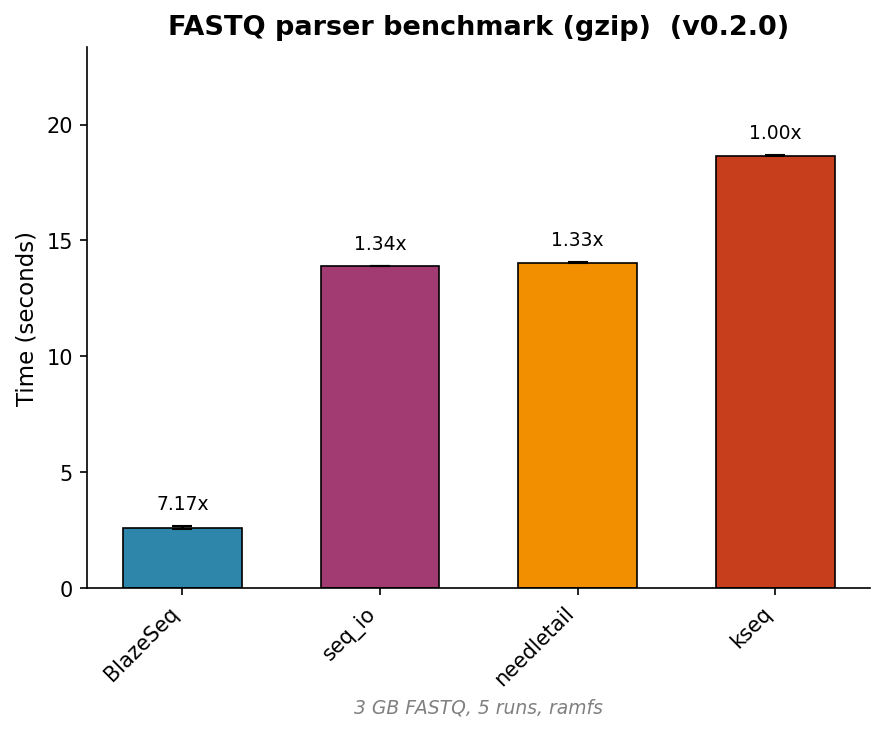
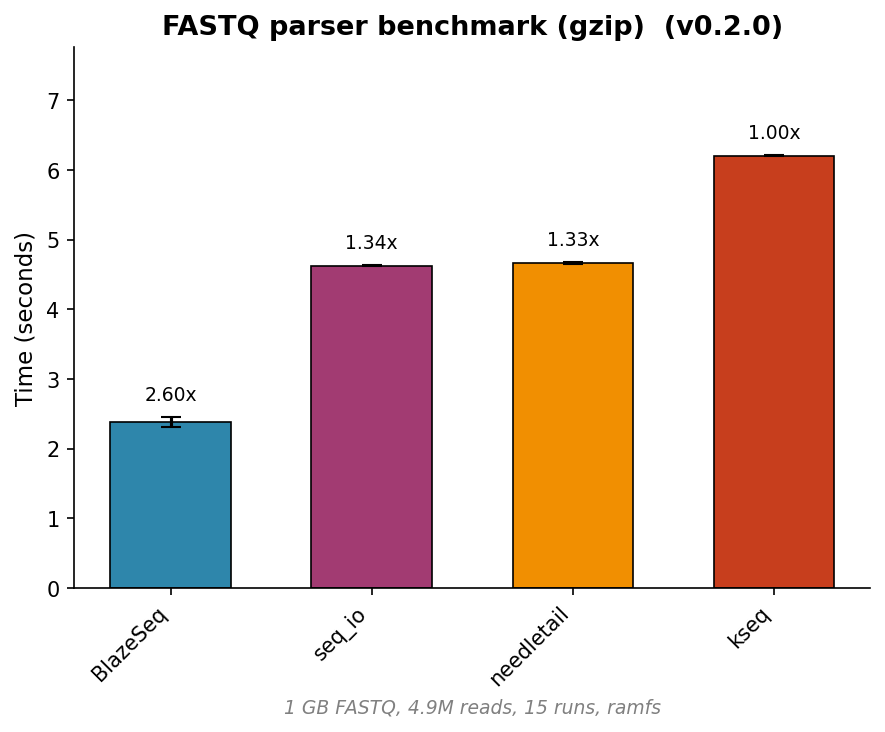
adjusted benchmarks

diff --git a/benchmark/fastq-parser/Benchmarking.md b/benchmark/fastq-parser/Benchmarking.md
@@ -164,7 +164,7 @@ The gzip benchmark compares **wall-clock time** (elapsed time) for decompress-an
 | **kseq**  | zlib                   | Single-threaded. One thread reads the gzip stream and decompresses sequentially. |
 | **needletail** | flate2 (or equivalent) | Single-threaded. Decompression runs on one thread. |
 | **seq_io** | flate2                 | Single-threaded. One thread for decompression. |
-| **BlazeSeq** | rapidgzip (via rapidgzip-mojo) | **Multi-threaded.** Parallel decompression across available cores (e.g. 12 cores on a 12-core processor). |
+| **BlazeSeq** | rapidgzip (via rapidgzip-mojo) | **Multi-threaded.** Parallel decompression; default **4 threads** (override with script arg or `GZIP_BLAZESEQ_THREADS`). |
 
 **Why this matters**
 
@@ -196,6 +196,10 @@ pixi run -e benchmark benchmark-gzip-single
 
 Results are written to `benchmark_results_gzip_single.md` and `benchmark_results_gzip_single.json`; the plot script produces `assets/parser_gzip_single.png`.
 
+### BlazeSeq thread count (multi-threaded only)
+
+The **multi-threaded** gzip benchmark caps BlazeSeq’s rapidgzip decompression at **4 threads by default**. You can override this with the first script argument or the `GZIP_BLAZESEQ_THREADS` environment variable. The single-threaded benchmark always uses 1 thread.
+
 ### Output files
 
 - **Multi-threaded (default):** `benchmark_results_gzip.md`, `benchmark_results_gzip.json`
@@ -205,14 +209,36 @@ Results are written to `benchmark_results_gzip_single.md` and `benchmark_results
 
 From the **repository root**, with the benchmark environment installed:
 
-```bash
-pixi run -e benchmark ./benchmark/fastq-parser/run_benchmarks_gzip.sh
-```
-
-Or use the pixi task:
+**Multi-threaded** (BlazeSeq uses 4 threads by default):
 
 ```bash
 pixi run -e benchmark benchmark-gzip
+```
+
+Use a different thread count by passing it as the first argument (e.g. 8 threads):
+
+```bash
+pixi run -e benchmark benchmark-gzip 8
+pixi run -e benchmark benchmark-gzip 0 # To use all available threads
+```
+
+Or run the script directly (with optional thread count):
+
+```bash
+./benchmark/fastq-parser/run_benchmarks_gzip.sh 0 # Will use all available threads
+./benchmark/fastq-parser/run_benchmarks_gzip.sh 8
+```
+
+**Single-threaded** (BlazeSeq uses 1 thread; all tools pinned to one core):
+
+```bash
+pixi run -e benchmark benchmark-gzip-single
+```
+
+Or:
+
+```bash
+GZIP_BENCH_PARALLELISM=1 ./benchmark/fastq-parser/run_benchmarks_gzip.sh
 ```
 
 **Requirements**: pixi, hyperfine, cargo, rustc, **gcc** (for kseq gzip runner), and **gzip** (system). Same ramfs/tmpfs setup as the plain benchmark on Linux (sudo for mount/umount, or `/dev/shm` fallback).
